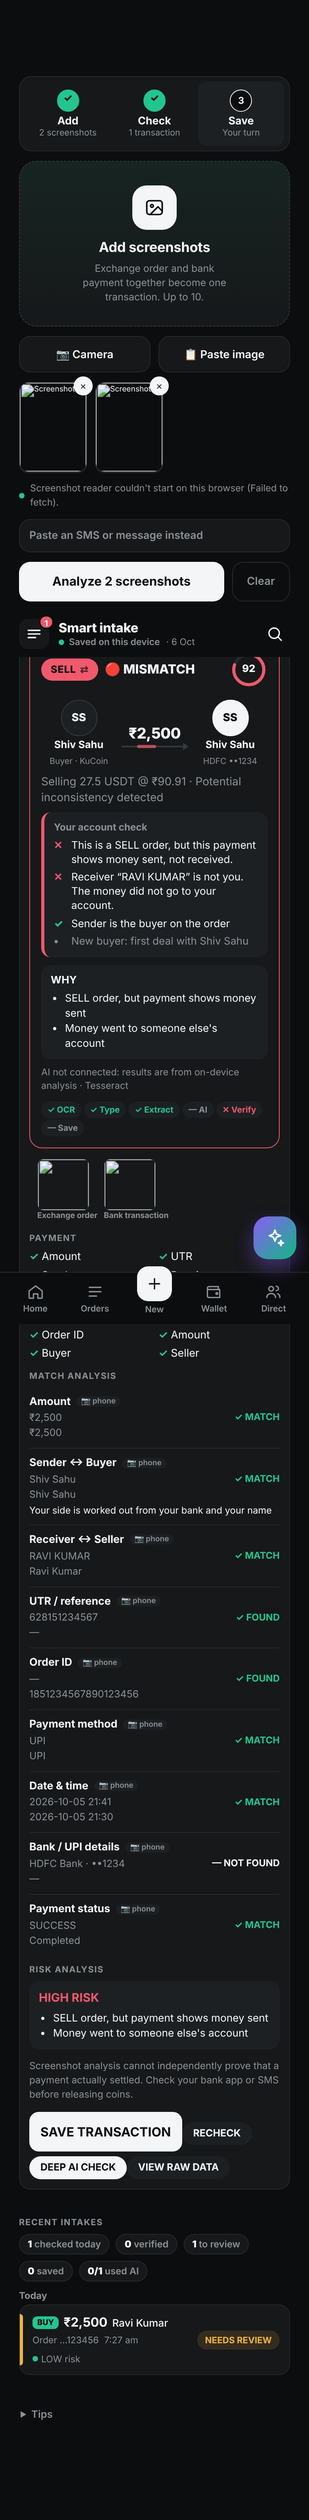
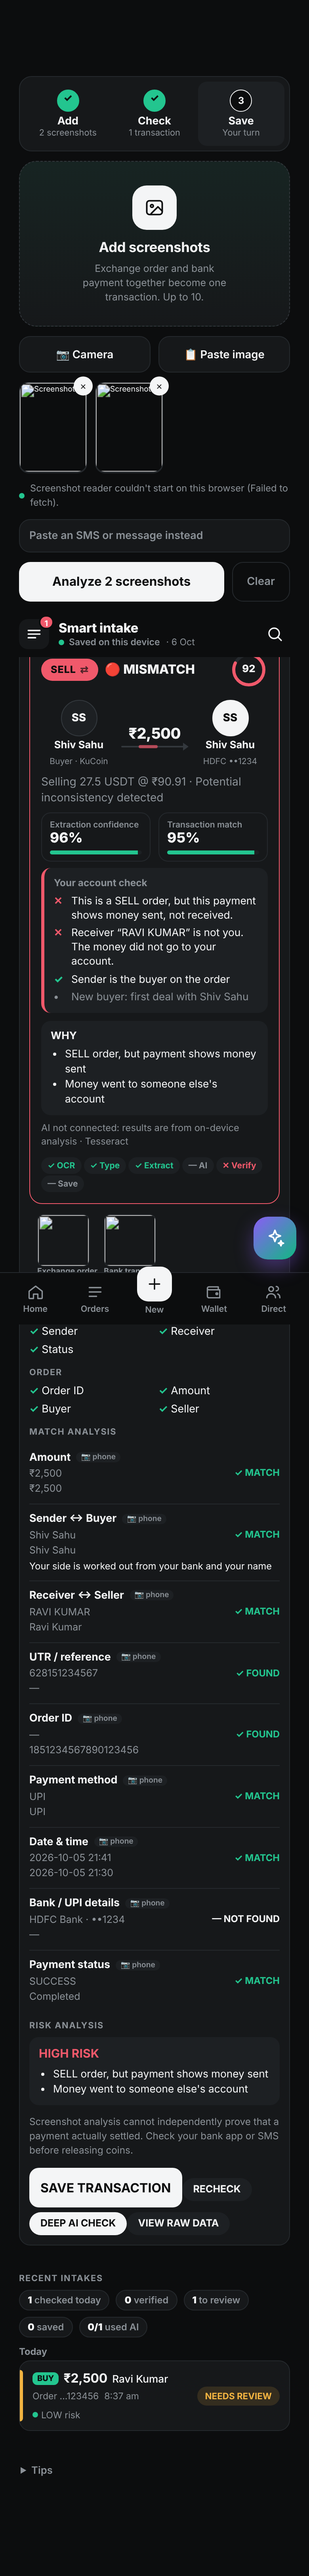
Smart Intake 0.0.0.00037: cancel analysis, live detected fields, extraction vs match scores, debug screen, duplicate-name and account-label fixes
Claude-Session: https://claude.ai/code/session_01Wus5P8BMW3JZywQjbeFwaG

diff --git a/web/index.html b/web/index.html
@@ -2285,6 +2285,7 @@ function ixClassify(text){const t=String(text||"");if(t.trim().length<12)return{
 const IX_LABELISH=/\b(transaction|txn|utr|debited|credited|banking|reference|ref|number|created|order|amount|total|price|rate|quantity|date|time|phonepe|google|gpay|paytm|bhim|transfer|details|status|successful|success|completed|upi|bank|account|payment|method|counterparty|merchant|released|chat|funding|assets|support|receipt|history|expense|expense|share|again|send)\b/i;
 function ixNameClean(v){v=String(v||"").replace(/\(.*$/,"").replace(/\S+@\S+/g," ").replace(/[^A-Za-z .'\-]/g," ").replace(/\s+/g," ").trim();
   let w=v.split(" ").filter(Boolean);while(w.length>2&&/^[a-z]{1,2}$/.test(w[0]))w.shift();while(w.length>1&&/^[^A-Za-z]$|^[A-Za-z]$/.test(w[w.length-1])&&w.length>2)w.pop();
+  {const seen=new Set();w=w.filter(x=>{const k=x.toLowerCase().replace(/[^a-z]/g,"");if(k.length<3)return true;if(seen.has(k))return false;seen.add(k);return true})}
   v=w.join(" ").replace(/^[.'\-\s]+|[.'\-\s]+$/g,"");if(v.length<2||IX_LABELISH.test(v)||!w.some(x=>x.replace(/[^A-Za-z]/g,"").length>=3))return null;return v.slice(0,40)}
 // ================= INTAKE MEMORY: what Smart Intake learns. Kept on this phone only; every item can be forgotten.
 var IXL;
@@ -4763,14 +4764,15 @@ function ixCardHtml(g,many){const X=g.X,P=X.pay,O=X.ord,T=VER_TXT[g.cmp.overall]
   const saveLbl=g.saved?"SAVED ✓":g.save&&g.save.state==="failed"?"SAVE AGAIN":"SAVE TRANSACTION";
   const M=ixMine(g),you=pref("owner")||"You",sd=M.side;const ini=n=>String(n||"?").trim().split(/\s+/).slice(0,2).map(w=>w[0]||"").join("").toUpperCase()||"?";
   const other=sd==="BUY"?(O.seller||P.receiver):sd==="SELL"?(O.buyer||P.sender):null;
-  const L=sd==="BUY"?{n:you,sub:M.acct||(P.acct?"Account "+P.acct:P.bank)||"Your account",me:1}:sd==="SELL"?{n:other||"Buyer",sub:"Buyer"+(O.platform?" · "+O.platform:"")}:{n:P.sender||O.buyer||"Sender",sub:"Sender"};
-  const R=sd==="BUY"?{n:other||"Seller",sub:"Seller"+(O.platform?" · "+O.platform:"")}:sd==="SELL"?{n:you,sub:M.acct||(P.acct?"Account "+P.acct:P.bank)||"Your account",me:1}:{n:P.receiver||O.seller||"Receiver",sub:"Receiver"};
+  const L=sd==="BUY"?{n:you,sub:M.acct||(P.acct&&ixAcctOk(P.acct)?"Account "+P.acct:P.bank)||"Your account",me:1}:sd==="SELL"?{n:other||"Buyer",sub:"Buyer"+(O.platform?" · "+O.platform:"")}:{n:P.sender||O.buyer||"Sender",sub:"Sender"};
+  const R=sd==="BUY"?{n:other||"Seller",sub:"Seller"+(O.platform?" · "+O.platform:"")}:sd==="SELL"?{n:you,sub:M.acct||(P.acct&&ixAcctOk(P.acct)?"Account "+P.acct:P.bank)||"Your account",me:1}:{n:P.receiver||O.seller||"Receiver",sub:"Receiver"};
   const party=x=>`<div class="ixp${x.me?" me":""}"><span class="av">${esc(ini(x.n))}</span><b>${esc(x.n)}</b><small>${esc(x.sub)}</small></div>`;
   const C=2*Math.PI*19,off=C*(1-Math.max(0,Math.min(100,g.conf))/100),col=g.cmp.overall==="VERIFIED"?"var(--accent)":g.cmp.overall==="REVIEW"?"var(--warn)":"var(--sell)";
   const deal=O.crypto&&O.price?`${sd==="SELL"?"Selling":sd==="BUY"?"Buying":"Trade"} ${O.crypto} ${O.coin||"USDT"} @ ₹${O.price}`:"";
-  return`<div class="vres ${g.cmp.overall}"><div class="ixtop">${sd?`<button type="button" class="ixside ${sd}" data-ix="flip" title="Wrong? Tap to switch">${sd} <i>⇄</i></button>`:""}<span class="vchip">${T[0]} ${g.cmp.overall==="VERIFIED"?"VERIFIED":T[1]}</span><span class="ixring" title="${g.conf}% confidence"><svg viewBox="0 0 48 48" width="48" height="48"><circle cx="24" cy="24" r="19" fill="none" stroke="var(--line)" stroke-width="4"/><circle class="rg" cx="24" cy="24" r="19" fill="none" stroke="${col}" stroke-width="4" stroke-linecap="round" stroke-dasharray="${C.toFixed(1)}" stroke-dashoffset="${off.toFixed(1)}" style="--c:${C.toFixed(1)}" transform="rotate(-90 24 24)"/></svg><b>${g.conf}</b></span></div>
+  return`<div class="vres ${g.cmp.overall}"><div class="ixtop">${sd?`<button type="button" class="ixside ${sd}" data-ix="flip" title="Wrong? Tap to switch">${sd} <i>⇄</i></button>`:""}<span class="vchip">${T[0]} ${g.cmp.overall==="VERIFIED"?"VERIFIED":T[1]}</span><span class="ixring" title="${g.conf}% overall trust"><svg viewBox="0 0 48 48" width="48" height="48"><circle cx="24" cy="24" r="19" fill="none" stroke="var(--line)" stroke-width="4"/><circle class="rg" cx="24" cy="24" r="19" fill="none" stroke="${col}" stroke-width="4" stroke-linecap="round" stroke-dasharray="${C.toFixed(1)}" stroke-dashoffset="${off.toFixed(1)}" style="--c:${C.toFixed(1)}" transform="rotate(-90 24 24)"/></svg><b>${g.conf}</b></span></div>
     <div class="ixflow">${party(L)}<div class="ixmid"><div class="ixamt">${amt!=null?inr(amt):"Amount not read"}</div><div class="ixline"><span></span></div>${O.fiat!=null&&P.amount!=null&&Math.abs(O.fiat-P.amount)>1?`<small>order says ${inr(O.fiat)}</small>`:""}</div>${party(R)}</div>
     <div class="vt">${deal?esc(deal)+" · ":""}${g.cmp.overall==="VERIFIED"?"Screenshots appear consistent":g.cmp.overall==="REVIEW"?"Needs your review":"Potential inconsistency detected"}${g.order?"":" · payment only"}</div>
+    ${ixScoreHtml(g)}
     ${M.lines.length?`<div class="ixmine ${M.verdict}"><b>Your account check</b><ul>${M.lines.map(l=>`<li class="${l.s}">${esc(l.t)}${l.own?ixOwnRow(l.own):""}</li>`).join("")}</ul></div>`:""}
     <div class="ixwhy"><b>WHY</b><ul>${ixWhy(g).map(w=>`<li>${esc(w)}</li>`).join("")}</ul></div>
     <div class="ixai">${g.ai==="ok"?"✨ Checked by AI vision on top of the phone reading":g.ai==="unavailable"?"⚠ Cloud AI unavailable"+(g.aiErr==="bad_key"?" (key rejected)":g.aiErr==="rate_limited"?" (no free requests left)":g.aiErr==="busy"?" (busy or slow)":"")+": results below are from on-device analysis":g.ai==="na"?"AI not connected: results are from on-device analysis":"📷 Read on your phone"}${g.items[0]&&g.items[0].ocr?` · ${esc(g.items.map(x=>x.ocr&&x.ocr.engine).filter((v,i,a)=>v&&a.indexOf(v)===i).join(" + "))}`:""}</div>
@@ -4787,7 +4789,7 @@ function ixCardHtml(g,many){const X=g.X,P=X.pay,O=X.ord,T=VER_TXT[g.cmp.overall]
     ${g.save?`<div class="ixsave ${g.save.state}"><b>${g.save.state==="saved"?"RECORDED 1 OF 1":g.save.state==="failed"?"ANALYSIS COMPLETE · SAVE FAILED":"NOT SAVED"}</b><div>${esc(g.save.msg||"")}</div></div>`:""}
     ${side}
     <div class="row2" style="margin-top:10px">${g.order||g.target?`<button class="primary" type="button" data-ix="save" ${g.saved?"disabled":""}>${saveLbl}</button>`:""}<button class="mini ghost" type="button" data-ix="recheck">RECHECK</button></div>${!g.order&&!g.target?`<div class="note" style="margin-top:6px">Payment only: choose the order it belongs to below, then confirm.</div><div data-paycard></div>`:""}
-    <div class="row2" style="margin-top:6px"><button class="mini ${g.cmp.overall!=="VERIFIED"&&g.ai!=="ok"?"":"ghost"}" type="button" data-ix="deep">${g.ai==="ok"?"DEEP AI CHECK AGAIN":"DEEP AI CHECK"}</button><button class="mini ghost" type="button" data-ix="raw">VIEW RAW DATA</button></div>
+    <div class="row2" style="margin-top:6px"><button class="mini ${g.cmp.overall!=="VERIFIED"&&g.ai!=="ok"?"":"ghost"}" type="button" data-ix="deep">${g.ai==="ok"?"DEEP AI CHECK AGAIN":"DEEP AI CHECK"}</button><button class="mini ghost" type="button" data-ix="raw">VIEW RAW DATA</button>${pref("dev")?'<button class="mini ghost" type="button" data-ix="debug">DEBUG</button>':""}</div>
     <div class="ixraw" hidden><pre>${esc(JSON.stringify({ocr:g.items.map(x=>({type:x.cls.type,engine:x.ocr&&x.ocr.engine,conf:x.ocr&&x.ocr.conf,text:x.ocr&&x.ocr.text})),payment:P,order:O,flags:g.cmp.flags,risk:g.risk,duplicates:g.dups.map(d=>d.msg),aiReasons:g.reasonsAI,aiConflicts:g.conflicts||[]},null,1))}</pre></div>`}
 function ixDraw(){try{ixRail()}catch(e){}const out=$("#i2-ix");if(!out)return;out.innerHTML="";const G=ixS.groups;
   if(G.length>1){const h=document.createElement("div");h.className="acard ixhead";h.innerHTML=`<div class="ah">${G.length} TRANSACTIONS DETECTED</div><div class="row2"><button class="primary" type="button" data-ixall="save">SAVE ALL</button><button class="mini ghost" type="button" data-ixall="review">REVIEW INDIVIDUALLY</button></div><div class="note" data-ixallmsg></div>`;
@@ -4796,6 +4798,7 @@ function ixDraw(){try{ixRail()}catch(e){}const out=$("#i2-ix");if(!out)return;ou
     d.addEventListener("click",e=>{const b=e.target.closest("[data-ix]");if(!b)return;ixAct(g,b.dataset.ix,b)});out.appendChild(d);
     const slot=d.querySelector("[data-paycard]");if(slot){const it=g.pays.find(x=>!x.support)||g.pays[0];try{if(it&&it.ocr&&it.ocr.text){const pp=payParse(it.ocr.text);if(pp.ok||pp.amount)slot.appendChild(payCard(pp,it.file,"phone"))}}catch(e){console.error(e)}}})}
 async function ixAct(g,a,btn){
+  if(a==="debug"){sheets.ixdebug(g.id);return}
   if(a==="raw"){const r=btn.closest(".ixb").querySelector(".ixraw");r.hidden=!r.hidden;return}
   if(a==="addbank"){sheets.bank();return}
   if(a.startsWith("own:")){const l4=a.slice(4),sel=btn.closest(".ixown").querySelector("[data-ixown]"),bk=banks.find(x=>x.id===(sel&&sel.value));if(bk){await patchRec(bk.id,{accNo:"XXXXXX"+l4});toast(`Saved ••${l4} on ${bk.name||bk.bankName}`);ixS.groups.forEach(x=>{try{ixVerify(x)}catch(e){}});ixDraw()}return}
@@ -4824,16 +4827,16 @@ async function ixFinish(groups,useAI){for(const g of groups){ixVerify(g);
     else if(g.reasonsAI.length&&!ixAiReady())g.ai="na";
     if(!g.histId)await ixHistAdd(g)}}
 // the whole run
-async function ixRun(){if(ixS.busy)return;const files=[...i2Files];if(!files.length)return;const run=++ixS.run;setTimeout(()=>{try{ixRail()}catch(e){}},0);ixS.busy=true;ixS.groups=[];
+async function ixRun(){if(ixS.busy)return;const files=[...i2Files];if(!files.length)return;const run=++ixS.run;ixS.T={};setTimeout(()=>{try{ixRail()}catch(e){}},0);ixS.busy=true;ixS.groups=[];
   const out=$("#i2-ix");out.innerHTML="";const card=document.createElement("div");card.className="acard ixprog";out.appendChild(card);const t0=Date.now();let msg="Getting your screenshots ready…";let skipShown=false;
-  const paint=()=>{const sec=Math.round((Date.now()-t0)/1000);card.innerHTML=`<div class="ah">ANALYSING ${files.length} SCREENSHOT${files.length>1?"S":""}</div><div class="ires">${esc(msg)} ${sec}s</div>${sec>=15&&!ixS.ocrReady&&!skipShown?"":""}`+(sec>=15&&ixS.stage==="ocr"?`<div class="note">${ixAiReady()?"The phone reader is slow to start. You can skip it and let your AI read the pictures.":"The phone reader is still starting (first use downloads about 10 MB). Please keep this page open."}</div>${ixAiReady()?'<button class="mini ghost" type="button" data-skipocr>Skip phone reader</button>':""}`:"");const sb=card.querySelector("[data-skipocr]");if(sb)sb.onclick=()=>ixS.skip&&ixS.skip()};
+  const paint=()=>{const sec=Math.round((Date.now()-t0)/1000);card.innerHTML=`<div class="ah">ANALYSING ${files.length} SCREENSHOT${files.length>1?"S":""}</div><div class="ires">${esc(msg)} ${sec}s</div>${sec>=15&&!ixS.ocrReady&&!skipShown?"":""}`+(sec>=15&&ixS.stage==="ocr"?`<div class="note">${ixAiReady()?"The phone reader is slow to start. You can skip it and let your AI read the pictures.":"The phone reader is still starting (first use downloads about 10 MB). Please keep this page open."}</div>${ixAiReady()?'<button class="mini ghost" type="button" data-skipocr>Skip phone reader</button>':""}`:"")+ixLiveHtml()+'<button class="mini ghost" type="button" data-ixcancel style="margin-top:8px">Cancel analysis</button>';const cb=card.querySelector("[data-ixcancel]");if(cb)cb.onclick=()=>{ixS.run++;clearInterval(tick);card.remove();ixS.busy=false;try{ixRail()}catch(e){}toast("Analysis cancelled")};const sb=card.querySelector("[data-skipocr]");if(sb)sb.onclick=()=>ixS.skip&&ixS.skip()};
   const tick=setInterval(paint,1000);paint();
   try{
     ixS.stage="prep";const items=await Promise.all(files.map(async(f,i)=>({i,file:f,blob:await shrinkImage(f),hash:await fileHash(f)})));
-    if(run!==ixS.run)return;ixS.items=items;
+    if(run!==ixS.run)return;ixS.items=items;ixS.T.prep=Date.now()-t0;
     ixS.stage="ocr";ocrListeners=[t=>{if(/Screenshot reader/.test(t))msg=t.replace("Screenshot reader: ","Reader: ")}];
     await ixOcrAll(items,(n,m)=>{msg=`Reading screenshot ${n+1} of ${m} on your phone…`});ocrListeners=[];
-    const failed=items.filter(x=>x.ocr.status==="fail");
+    if(run!==ixS.run)return;ixS.T.ocr=Date.now()-t0;const failed=items.filter(x=>x.ocr.status==="fail");
     if(failed.length===items.length){ // phone reader unavailable → let the AI read everything, if one is connected
       if(!ixAiReady()){clearInterval(tick);card.innerHTML=`<div class="ah">OCR UNAVAILABLE</div><div class="note">The phone reader couldn't start (${esc(items[0].ocr.err==="timeout"?"it took too long to download":"not available here")}). Your screenshots are kept. You can paste the payment SMS text instead, connect an AI in Settings, or try again on a better connection.</div><button class="mini" type="button" data-retry>Try again</button>`;card.querySelector("[data-retry]").onclick=()=>{ocrPromise=null;ixOcrCache.clear();ixS.busy=false;ixRun()};return}
       ixS.stage="ai";msg="Phone reader unavailable. Your AI is reading the pictures…";
@@ -4849,11 +4852,11 @@ async function ixRun(){if(ixS.busy)return;const files=[...i2Files];if(!files.len
       const needAI=ixAiReady();if(needAI){const gs=ixS.groups;gs.forEach(g=>ixVerify(g));if(gs.some(g=>g.reasonsAI.length))msg="Double-checking unclear parts with AI…"}
       await ixFinish(ixS.groups,true);
     }
-    if(run!==ixS.run)return;
+    if(run!==ixS.run)return;ixS.T.done=Date.now()-t0;ixS.groups.forEach(g=>{g.T={...ixS.T}});
     clearInterval(tick);card.remove();ixDraw();renderIxHist();
     try{const first=out.querySelector(".ixg, .ixhead");if(first)first.scrollIntoView({block:"start",behavior:"smooth"})}catch(e){}
   }catch(e){console.error(e);clearInterval(tick);card.innerHTML=`<div class="ah">ANALYSIS INTERRUPTED</div><div class="note">${esc(e&&e.code==="busy"?"The AI is busy or slow right now.":e&&e.code==="bad_json"?e.text:"Something went wrong while reading. Your screenshots are kept.")}</div><button class="mini" type="button" data-retry>Try again</button>`;card.querySelector("[data-retry]").onclick=()=>{ixS.busy=false;ixRun()}}
-  finally{clearInterval(tick);ixS.busy=false;try{ixRail()}catch(e){}ocrListeners=[];if(ixS.again){ixS.again=false;setTimeout(()=>ixRun(),60)}}}
+  finally{clearInterval(tick);if(run===ixS.run)ixS.busy=false;try{ixRail()}catch(e){}ocrListeners=[];if(ixS.again){ixS.again=false;setTimeout(()=>ixRun(),60)}}}
 // ---- Recent intakes
 function renderIxHist(){const el=$("#i2-hist");if(!el)return;const L=recs.filter(r=>r.kind==="ix").sort((a,b)=>b.time-a.time).slice(0,40);if(!L.length){el.innerHTML="";return}
   const d0=new Date();d0.setHours(0,0,0,0);const t0=d0.getTime(),sec=[["Today",x=>x.time>=t0],["Yesterday",x=>x.time<t0&&x.time>=t0-DAY],["This week",x=>x.time<t0-DAY&&x.time>=t0-6*DAY]];
@@ -5222,7 +5225,7 @@ sheets.wa=function(tab){tab=tab||"home";const due=parties.map(p=>({p,l:partyOwed
   })};
 ACT.wa_send={d:a=>`WhatsApp ${a.kind==="stmt"?"statement":"update"} → ${(parties.find(p=>p.id===a.party)||{}).name||"party"}`,run:async a=>{const p=parties.find(x=>x.id===a.party);if(!p)throw new Error("party not found");try{closeAiPop()}catch(e){}setTimeout(()=>sheets.wasend({party:p.id,kind:a.kind==="stmt"?"stmt":"update"}),200)}};
 // ================= FEEDBACK & UPDATES
-const APP_BUILD=36;const APP_VER="0.0.0."+String(APP_BUILD).padStart(5,"0");
+const APP_BUILD=37;const APP_VER="0.0.0."+String(APP_BUILD).padStart(5,"0");
 setInterval(()=>{const c=document.getElementById("dClock");if(c)c.textContent=new Date().toLocaleTimeString("en-IN",{hour:"numeric",minute:"2-digit"})},15000);
 
 const FB_T={bug:["Problem","🐞","Kya galat hua? Kis screen pe, kya dabaya, kya aana chahiye tha…"],feat:["New feature","✨","Naya kya chahiye? Jaise: har party ka monthly summary…"],imp:["Improve","🔧","Kya behtar ho sakta hai? Jaise: ye button bada ho…"],like:["Like it","❤","Kya accha laga? Isse pata chalta hai kya mat badlo."]};
@@ -5289,6 +5292,7 @@ sheets.feedback=function(tab,pre){tab=tab||"send";pre=pre||{};
   })};
 // ================= ABOUT (version + updates)
 const APP_LOG=[
+  ["0.0.0.00037","6 Oct 2026",["New Cancel analysis button while Smart Intake is reading","New live view while reading: each screenshot shows what was found (amount, order ID, UTR, names) and what was not confidently detected","New two separate scores on every result: Extraction confidence (how well we read it) and Transaction match (how well payment and order belong together)","New Debug screen (turn on in Intake memory > Developer): OCR text and confidence, fields and their source screenshot, match calculation, risk flags, AI response, processing time","Fixed: a repeated name part such as DHIRAJ KUMAR kumar is now read as DHIRAJ KUMAR","Fixed: a wrong label such as Account Sender A... is no longer shown as your account"]],
   ["0.0.0.00036","6 Oct 2026",["New Chat replies: ready exchange-chat messages with amount, name and your bank details filled in; add your own","New One client, many names: merge the same person under different names so orders, trust and limits count as one","New Udhar khata: who owes you and who you owe, in rupees or USDT, with due dates, reminders and alerts","New Day close: end-of-day checklist and match your real bank, cash and USDT balances, with a saved history","New Business insights: best clients, best payment methods and banks, best days and hours, and clients who went quiet","New Bank health: credit streaks, rest-day advice, limits left, and a freeze log that learns your safe daily credit level","New At a glance card and an Android home-screen widget with today's profit, open orders and alerts (needs the new APK)"]],
   ["0.0.0.00035","6 Oct 2026",["New Intake memory: Smart Intake now learns on this phone, so the AI is needed less and less","Learns that two similar names are the same person (for example Likith Shetty = Likith Rajesh Shetty) when you save a deal","Learns where details sit on an exchange or payment screen after the AI reads something the phone missed, and uses that next time without the AI","Learns your bank from its last 4 digits when the AI recognises the logo","Shows known sellers and buyers (earlier deals) and how many intakes needed the AI today","Settings > Intake memory lists everything learned, and each item can be forgotten"]],
   ["0.0.0.00034","6 Oct 2026",["Fixed: the counterparty name on exchange orders (Counterparty Name(email)) is now read, and a wrapped Order Number is joined back together","Fixed: wrong names such as PhonePe Transaction ID or Order Number Created At are never used as a person name","Fixed: the payee UPI handle (for example @okhdfcbank) is no longer taken as your bank","Fixed: payment time written before the date, and 10/05/2026 order dates (month first) are read correctly","New: if a payment comes from an account not in your bank list, tap Yes, it's mine to save its last 4 digits on one of your banks"]],
@@ -5706,6 +5710,45 @@ sheets.glance=function(){const g=glanceData();const nat=!!(window.P2PNative&&typ
   <div class="pcsec">Home-screen widget</div>
   <p class="note">${nat?"Long-press your phone's home screen, tap Widgets, find P2P Order Book and place it. It shows today's profit, open orders and alerts, and opens the app when tapped. It refreshes every time you use the app.":"The home-screen widget works in the Android app. Install the latest APK, then long-press the home screen and add the P2P Order Book widget."}</p></div>`)};
 
+// ===== Smart Intake extras: live fields, two scores, debug screen =====
+(function(){if(!document.getElementById("p7css2")){const s=document.createElement("style");s.id="p7css2";s.textContent=`.ixlive{display:grid;gap:8px;margin-top:8px}.ixlv{border:1px solid var(--line);border-radius:12px;padding:8px 10px}.ixlv>b{display:block;font:700 .72rem var(--body);margin-bottom:4px}.ixlv div{display:flex;justify-content:space-between;gap:10px;font:500 .78rem var(--body);padding:2px 0}.ixlv span{color:var(--muted)}.ixlv em{font-style:normal;color:var(--accent);font-weight:600;text-align:right}.ixlv i{font-style:normal;color:var(--warn);text-align:right}.ixsc{display:grid;grid-template-columns:1fr 1fr;gap:10px;margin:8px 0}.ixsc1{border:1px solid var(--line);border-radius:12px;padding:8px 10px}.ixsc1 span{display:block;font:600 .66rem var(--body);color:var(--muted)}.ixsc1 b{font:800 1.1rem var(--body)}.ixsc1 u{display:block;height:5px;border-radius:5px;background:var(--soft);margin-top:5px;text-decoration:none;overflow:hidden}.ixsc1 u i{display:block;height:100%;background:var(--accent)}.ixdbg pre{white-space:pre-wrap;word-break:break-word;font:500 .7rem/1.4 ui-monospace,monospace;background:var(--soft);border-radius:10px;padding:8px;max-height:220px;overflow:auto}`;document.head.appendChild(s)}})();
+function ixAcctOk(s){return/\d{2,}|x{3,}|\*{2,}|•{2,}/i.test(String(s||""))}
+function ixLiveHtml(){const its=(ixS.items||[]).filter(x=>x.ocr&&x.ocr.text);if(!its.length)return"";
+ its.forEach(it=>{if(!it.__live){try{ixItem(it)}catch(e){}it.__live=1}});
+ const money=v=>"₹"+Number(v).toLocaleString("en-IN",{maximumFractionDigits:2});
+ return`<div class="ixlive">`+its.map(it=>{const P=it.pay,O=it.ord,f=[];
+  if(P)f.push(["Amount",P.amount!=null?money(P.amount):null],["UTR",P.utr],["Sender",P.sender],["Receiver",P.receiver],["Status",P.status]);
+  else if(O)f.push(["Amount",O.fiat!=null?money(O.fiat):null],["Order ID",O.id?String(O.id).slice(0,12)+(String(O.id).length>12?"…":""):null],["Buyer",O.buyer],["Seller",O.seller]);
+  else f.push(["Details",null]);
+  return`<div class="ixlv"><b>${esc(IX_TYPES[it.cls.type]||"Screenshot")}</b>${f.map(([k,v])=>`<div><span>${k}</span>${v?`<em>${esc(v)} ✓</em>`:`<i>Not confidently detected ⚠</i>`}</div>`).join("")}</div>`}).join("")+`</div>`}
+const IX_W={amount:30,orderid:15,buyer:10,seller:10,utr:10,method:10,time:10,acct:5,status:5},IX_S={MATCH:1,FOUND:1,UNCLEAR:.4,NOTFOUND:0,MISMATCH:0};
+function ixScores(g){const X=g.X,P=X.pay,O=X.ord;
+ const all=[P.amount,P.utr,P.sender,P.receiver,P.status,P.date||P.time,...(g.order?[O.id,O.fiat!=null?O.fiat:O.crypto,O.buyer||O.seller,O.when]:[])];
+ const frac=all.filter(v=>v!=null&&v!=="").length/all.length;
+ const oc=g.items.map(x=>x.ocr&&x.ocr.conf).filter(c=>typeof c==="number"),ocr=oc.length?oc.reduce((a,b)=>a+b,0)/oc.length:null;
+ const ext=Math.round(ocr==null?frac*100:0.5*ocr+0.5*frac*100);
+ let mt=null,rows=[];
+ if(g.order){let sw=0,sc=0,amtOk=false;g.cmp.fields.forEach(f=>{const w=IX_W[f.k];if(!w)return;const s=IX_S[f.res]==null?0:IX_S[f.res];sw+=w;sc+=w*s;if(f.k==="amount")amtOk=s===1;rows.push({k:f.k,label:f.label,res:f.res,w,pts:Math.round(w*s*10)/10})});
+  mt=sw?Math.round(sc/sw*100):null;if(mt!=null&&!amtOk)mt=Math.min(mt,40)}
+ return{ext,match:mt,rows,frac:Math.round(frac*100),ocr:ocr==null?null:Math.round(ocr)}}
+function ixScoreHtml(g){let s;try{s=ixScores(g)}catch(e){return""}const bar=(l,v,t)=>`<div class="ixsc1" title="${t}"><span>${l}</span><b>${v==null?"—":v+"%"}</b><u><i style="width:${v||0}%"></i></u></div>`;
+ return`<div class="ixsc">${bar("Extraction confidence",s.ext,"How sure we are that we read the screenshots correctly")}${bar("Transaction match",s.match,"How strongly the payment and the order belong together")}</div>`}
+sheets.ixdebug=function(id){const g=(ixS.groups||[]).find(x=>x.id===id)||ixS.groups[0];if(!g)return toast("Nothing to show");
+ let S={rows:[]};try{S=ixScores(g)}catch(e){}const T=g.T||{},ms=v=>v==null?"—":(v/1000).toFixed(1)+" s";
+ const idx=x=>{const i=g.items.indexOf(x);return i<0?"—":"Screenshot "+(i+1)};const payIt=g.pays[0],ordIt=g.order;
+ const F=[];const add=(src,o,keys)=>keys.forEach(k=>{if(o&&o[k]!=null&&o[k]!=="")F.push([k,o[k],src])});
+ add(idx(payIt)+(g.aiFilled&&g.aiFilled.size?" + AI":""),g.X.pay,["amount","utr","sender","receiver","status","method","bank","date","time","acct"]);add(idx(ordIt)+(g.aiFilled&&g.aiFilled.size?" + AI":""),g.X.ord,["id","fiat","crypto","coin","price","buyer","seller","when","method","platform"]);
+ const aiTxt=JSON.stringify({status:g.ai||null,error:g.aiErr||null,reasons:g.reasonsAI||[],conflicts:g.conflicts||[],aiPay:g.aiPay||null,aiOrd:g.aiOrd||null},null,1);
+ openSheet(`<div class="insw ixdbg"><div class="insh"><h3>Debug</h3><span class="note">developer details</span></div>
+  <div class="pcsec">Processing time</div><div class="dqr"><span>Reading photos<small>${ms(T.prep)} prep · ${ms(T.ocr!=null&&T.prep!=null?T.ocr-T.prep:null)} OCR</small></span><b>${ms(T.done)}</b></div>
+  <div class="pcsec">Screenshots</div>${g.items.map((x,i)=>`<div class="p7c"><h4>Screenshot ${i+1} · ${esc(IX_TYPES[x.cls.type]||x.cls.type)}</h4><small class="note">classified ${Math.round((x.cls.conf||0)*100)}% · engine ${esc((x.ocr&&x.ocr.engine)||"—")} · OCR confidence ${x.ocr&&x.ocr.conf!=null?Math.round(x.ocr.conf)+"%":"—"}</small><pre>${esc((x.ocr&&x.ocr.text)||"(no text)")}</pre></div>`).join("")}
+  <div class="pcsec">Detected fields</div>${F.map(([k,v,s])=>`<div class="dqr"><span>${esc(k)}<small>${esc(s)}</small></span><b style="max-width:55%;text-align:right;word-break:break-word">${esc(String(v))}</b></div>`).join("")||'<p class="note">Nothing detected.</p>'}
+  <div class="pcsec">Match calculation</div>${S.rows.map(r=>`<div class="dqr"><span>${esc(r.label)}<small>${esc(r.res)} · weight ${r.w}</small></span><b>${r.pts}</b></div>`).join("")||'<p class="note">No order, so no match score.</p>'}
+  <div class="dqr"><span>Extraction ${S.ext}% = half OCR confidence${S.ocr!=null?" ("+S.ocr+"%)":" (not available)"} + half fields read (${S.frac}%)<small>Match ${S.match==null?"—":S.match+"%"} = points ÷ weights${S.match!=null&&S.match<=40?" · capped at 40 when the amount does not match":""}</small></span></div>
+  <div class="pcsec">Risk flags</div><pre>${esc(JSON.stringify({level:g.risk.level,reasons:g.risk.reasons,flags:g.cmp.flags,local:g.cmp.local,duplicates:g.dups.map(d=>d.msg)},null,1))}</pre>
+  <div class="pcsec">AI response</div><pre>${esc(aiTxt)}</pre>
+  <div class="pcsec">Boxes</div><p class="note">Bounding boxes are not recorded: the phone reader returns text only.</p></div>`)};
+
 sheets.ixmem=function(){const R=recs.filter(r=>r.kind==="ixl").sort((a,b)=>(b.last||0)-(a.last||0)),al=R.filter(r=>r.t==="alias"),lb=R.filter(r=>r.t==="lab"),ac=R.filter(r=>r.t==="acct");
   const FN={id:"Order ID",cp:"The other person's name",fiat:"Total amount",price:"Price",crypto:"Coin amount",receiver:"Receiver name",sender:"Sender name",utr:"UTR",amount:"Amount"};
   const row=(r,t,sm)=>`<div class="dqr"><span>${t}<small>${sm}</small></span><button type="button" class="mini ghost" data-ixdel="${esc(r.id)}" aria-label="Forget this">Forget</button></div>`;
@@ -5714,7 +5757,9 @@ sheets.ixmem=function(){const R=recs.filter(r=>r.kind==="ixl").sort((a,b)=>(b.la
     <div class="pcsec">Same person, different spelling (${al.length})</div><div class="rml">${al.length?al.map(r=>row(r,`${esc(r.da||r.a)} = ${esc(r.db||r.b)}`,seen(r))).join(""):empty("Nothing yet. Save a deal where the payment name and the order name are similar and I will learn them.")}</div>
     <div class="pcsec">Where details sit on a screen (${lb.length})</div><div class="rml">${lb.length?lb.map(r=>row(r,`${esc(FN[r.f]||r.f)} comes ${r.m==="below"?"under":"after"} “${esc(r.l)}”`,`${r.s==="ord"?"Exchange order":"Payment"} · ${seen(r).toLowerCase()}`)).join(""):empty("Nothing yet. When the AI reads something the phone missed, I remember where it was.")}</div>
     <div class="pcsec">Your accounts (${ac.length})</div><div class="rml">${ac.length?ac.map(r=>row(r,`••${esc(r.l4)} is ${esc(r.bank)}`,seen(r))).join(""):empty("Nothing yet. A bank the AI recognises from a logo is remembered by its last 4 digits.")}</div>
+    <div class="pcsec">Developer</div><div class="rml"><div class="dqr"><span>Developer details<small>Shows a DEBUG button on each intake result</small></span><label class="tog"><input type="checkbox" id="ixl-dev" ${pref("dev")?"checked":""}><span></span></label></div></div>
     ${R.length?'<button type="button" class="mini ghost" id="ixl-all" style="margin-top:10px">Forget everything</button>':""}</div>`,()=>{
+    $("#sheetBody").onchange=e=>{if(e.target.id==="ixl-dev"){setPref("dev",e.target.checked);toast(e.target.checked?"Developer details on":"Developer details off");try{ixDraw()}catch(x){}}};
     $("#sheetBody").onclick=async e=>{const d=e.target.closest("[data-ixdel]");if(d){await delRec(d.dataset.ixdel);if(IXL)IXL.dirty=true;sheets.ixmem();renderIxHist();return}
       const all=e.target.closest("#ixl-all");if(all){if(all.dataset.sure!=="1"){all.dataset.sure="1";all.textContent="Tap again to forget everything";return}
         for(const r of recs.filter(x=>x.kind==="ixl"))await delRec(r.id);if(IXL)IXL.dirty=true;toast("Intake memory cleared");sheets.ixmem();renderIxHist()}}})}

diff --git a/tests/intake_extras_test.py b/tests/intake_extras_test.py
@@ -1,0 +1,58 @@
+import asyncio, json, time, sys, os
+from playwright.async_api import async_playwright
+APP=os.environ.get("APP","/home/claude/p2p-tracker.html")
+FX=os.path.dirname(os.path.abspath(__file__))+"/fixtures/"
+T={n:open(FX+f).read() for n,f in {"pay1.png":"pay_phonepe.txt","ord1.png":"order_kucoin.txt"}.items()}
+now=int(time.time()*1000)
+RECS=[{"id":"B1","kind":"bank","name":"HDFC","bankName":"HDFC Bank","accNo":"50100012341234","type":"Bank","opening":100000,"time":now-30*864e5}]
+async def main():
+  ok=True
+  def chk(n,c):
+    nonlocal ok
+    print(("PASS " if c else "FAIL ")+n);ok=ok and bool(c)
+  async with async_playwright() as p:
+    b=await p.chromium.launch();pg=await b.new_page(viewport={"width":390,"height":900});errs=[]
+    pg.on("pageerror",lambda e:errs.append(str(e)))
+    await pg.route("**/*",lambda r:r.abort() if r.request.url.startswith("http") else r.continue_())
+    await pg.add_init_script(f"localStorage.setItem('p2p_orders_v1',{json.dumps(json.dumps(RECS))})")
+    await pg.goto("file://"+APP);await pg.wait_for_timeout(900)
+    await pg.evaluate("window.__T=%s"%json.dumps(T))
+    await pg.evaluate("void(()=>{window.__slow=0;ixOcr=async(it)=>{if(it.file.name==='ord1.png'&&window.__slow)await new Promise(r=>setTimeout(r,window.__slow));return {text:window.__T[it.file.name]||'',conf:92,engine:'Tesseract',status:'ok'}};assetsApi={upload:async()=>({id:'a'+Math.random()})}})()")
+    await pg.evaluate("goPage('intake')");await pg.wait_for_timeout(300)
+    mk=lambda n,k:{"name":n,"mimeType":"image/png","buffer":bytes([k]*40)}
+    files=[mk("pay1.png",1),mk("ord1.png",2)]
+    # live view + cancel
+    await pg.evaluate("window.__slow=6000")
+    await pg.set_input_files("#i2-file",files);await pg.wait_for_timeout(300)
+    await pg.click("#i2-go");await pg.wait_for_timeout(2600)
+    live=await pg.evaluate("(document.querySelector('.ixlive')||{}).innerText||''")
+    chk("live view shows a detected field",("✓" in live) and ("Amount" in live))
+    chk("cancel button present",await pg.evaluate("!!document.querySelector('[data-ixcancel]')"))
+    await pg.click("[data-ixcancel]");await pg.wait_for_timeout(300)
+    chk("cancel stops the run",await pg.evaluate("!ixS.busy&&!document.querySelector('.ixprog')"))
+    await pg.wait_for_timeout(5000)
+    chk("cancelled run shows no result",await pg.evaluate("document.querySelectorAll('#i2-ix .vres').length")==0)
+    # normal run
+    await pg.evaluate("window.__slow=0")
+    await pg.click("#i2-go");await pg.wait_for_timeout(3000)
+    chk("result drawn",await pg.evaluate("document.querySelectorAll('#i2-ix .vres').length")==1)
+    sc=await pg.evaluate("(document.querySelector('.ixsc')||{}).innerText||''")
+    chk("two separate scores",("Extraction confidence" in sc) and ("Transaction match" in sc))
+    v=await pg.evaluate("(()=>{const s=ixScores(ixS.groups[0]);return [s.ext,s.match]})()")
+    chk("scores are numbers 0-100",all(isinstance(x,int) and 0<=x<=100 for x in v))
+    print("scores",v)
+    chk("no debug button by default",await pg.evaluate("!document.querySelector('[data-ix=debug]')"))
+    await pg.evaluate("setPref('dev',true);ixDraw()")
+    chk("debug button when developer on",await pg.evaluate("!!document.querySelector('[data-ix=debug]')"))
+    await pg.click("[data-ix=debug]");await pg.wait_for_timeout(200)
+    t=await pg.inner_text("#sheetBody")
+    chk("debug screen content",all(k.lower() in t.lower() for k in ["Processing time","Match calculation","AI response","Screenshot 1"]))
+    # name dedupe + account label
+    r=await pg.evaluate("[ixNameClean('DHIRAJ KUMAR kumar'),ixNameClean('Likith Shetty'),ixNameClean('anand kumar kumar-Anand'),ixAcctOk('Sender A...'),ixAcctOk('XXXXXXXX5842'),ixAcctOk('A/C No. ******5842')]")
+    chk("name duplicate removed",r[0]=="DHIRAJ KUMAR" and r[1]=="Likith Shetty")
+    chk("account label guard",r[3] is False and r[4] is True and r[5] is True)
+    chk("no page errors",not errs)
+    if errs:print(errs)
+    await b.close()
+  print("ALL OK" if ok else "FAILED");sys.exit(0 if ok else 1)
+asyncio.run(main())
